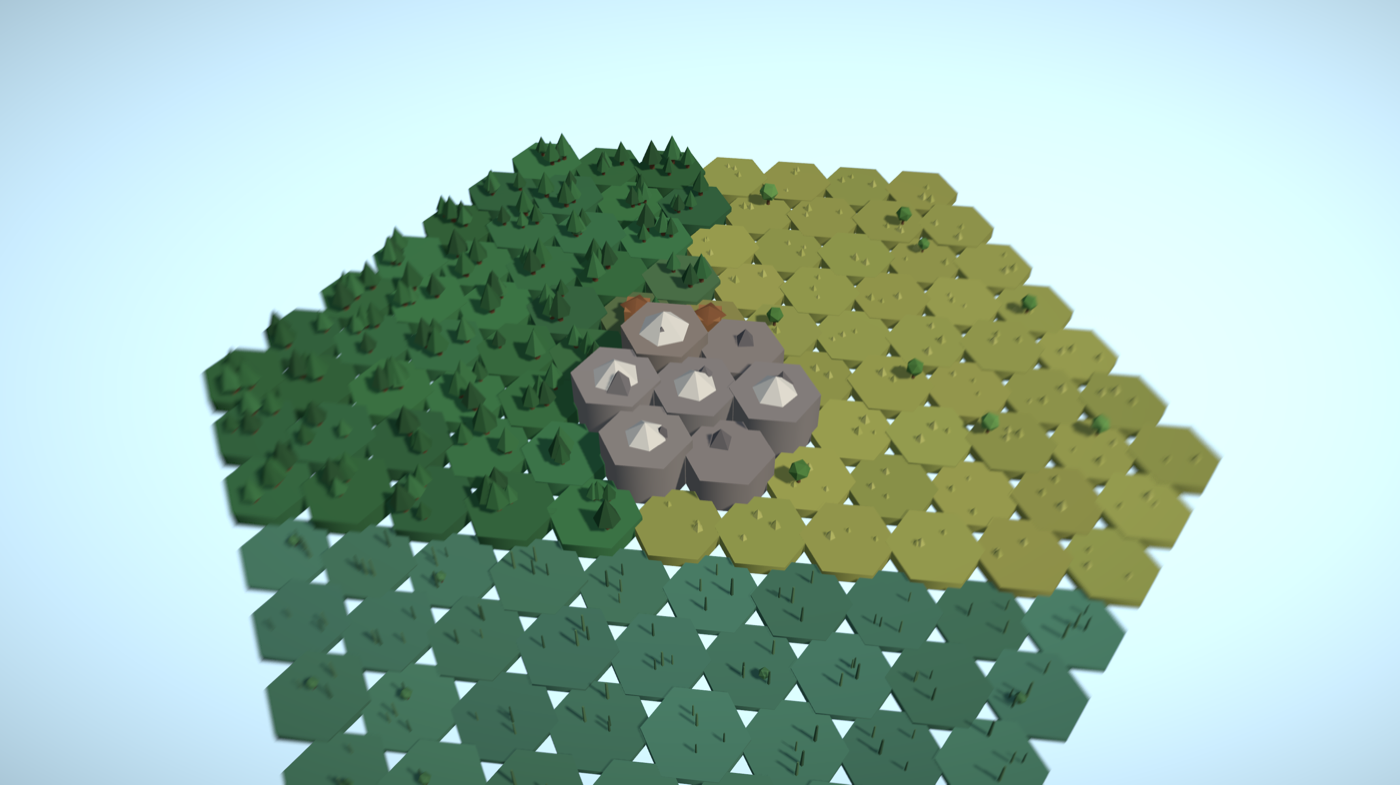
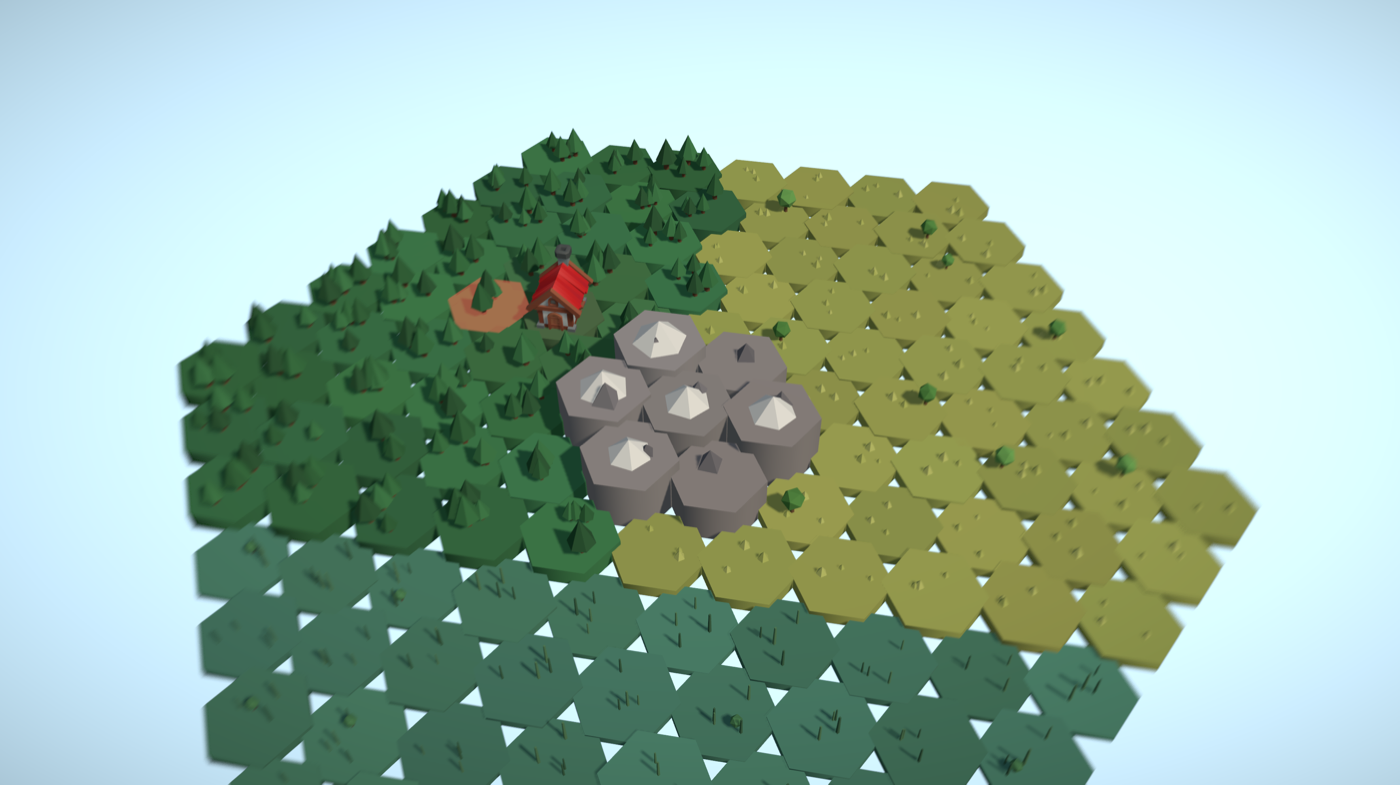
README: refresh screenshot and status after M3

diff --git a/README.md b/README.md
@@ -27,5 +27,7 @@ The full design — vision, simulation model, spatial model, data schemas, and b
 ## Status
 
 - ✅ M0–M2: world render, dual-zoom camera, headless sim core (24 tests), live HUD
-- 🔨 M3: building placement, stewardship actions, the species-arrival payoff loop
+- ✅ M3: build & steward menu, click-to-place with validity highlighting, KayKit CC0 building models, construction grow-in, player-confirmed age-up
 - ⏳ M4–M6: tech tree and age progression UI, late-game restoration, polish + shareable deploy
+
+Building models: [KayKit Medieval Hexagon Pack](https://github.com/KayKit-Game-Assets/KayKit-Medieval-Hexagon-Pack-1.0) by Kay Lousberg (CC0).